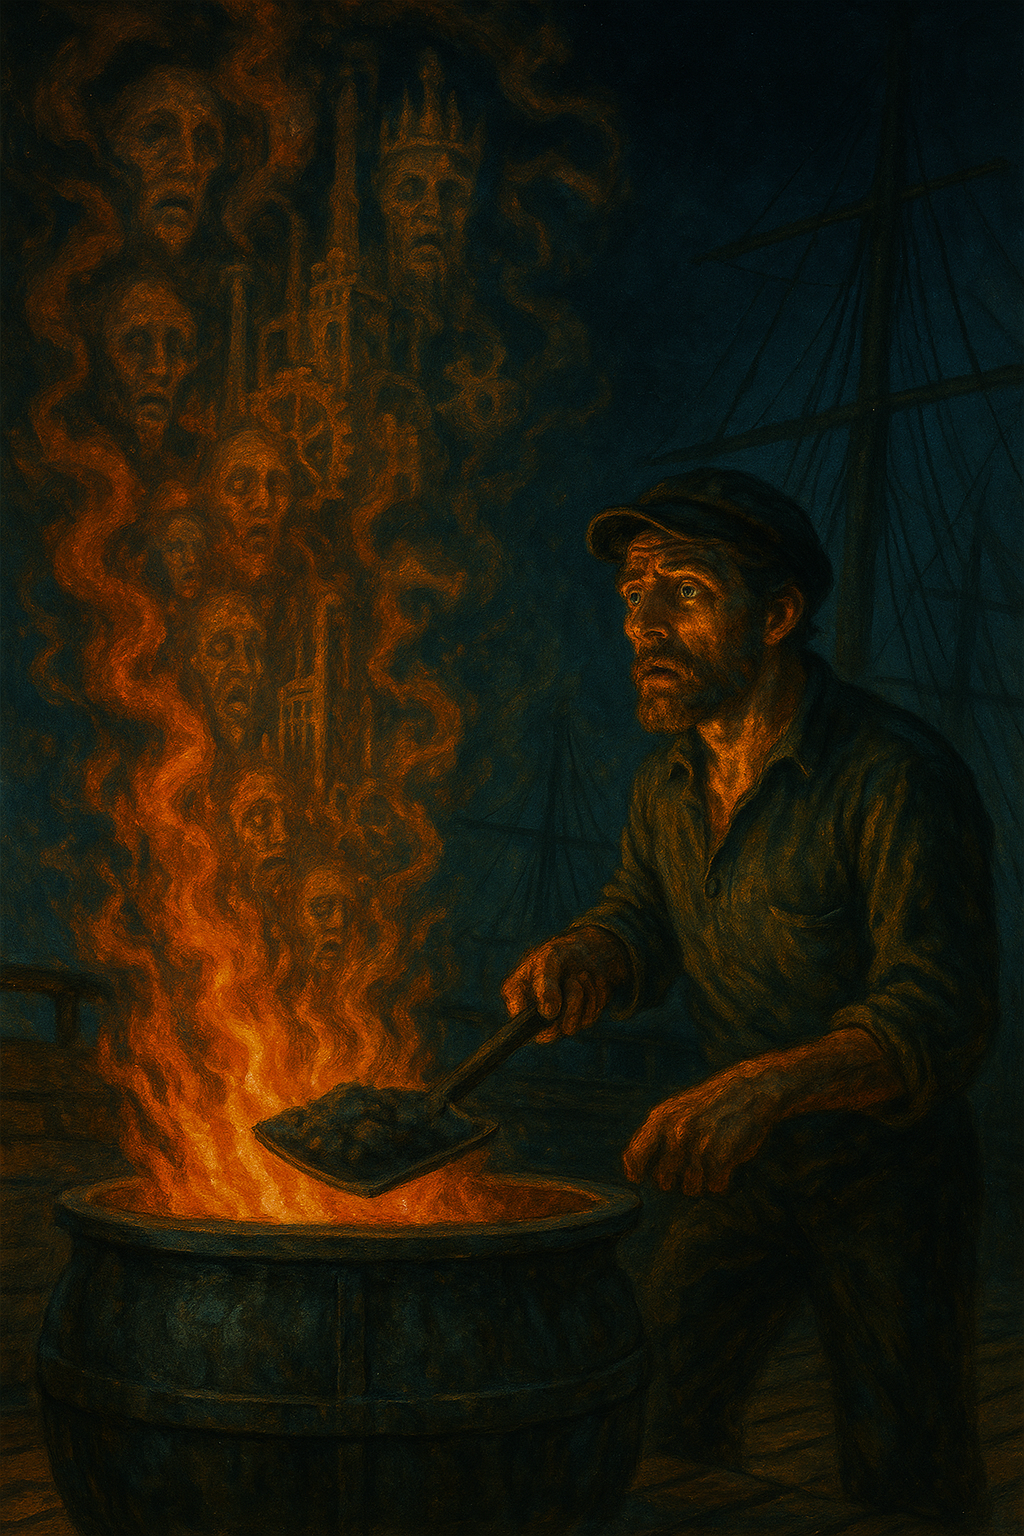
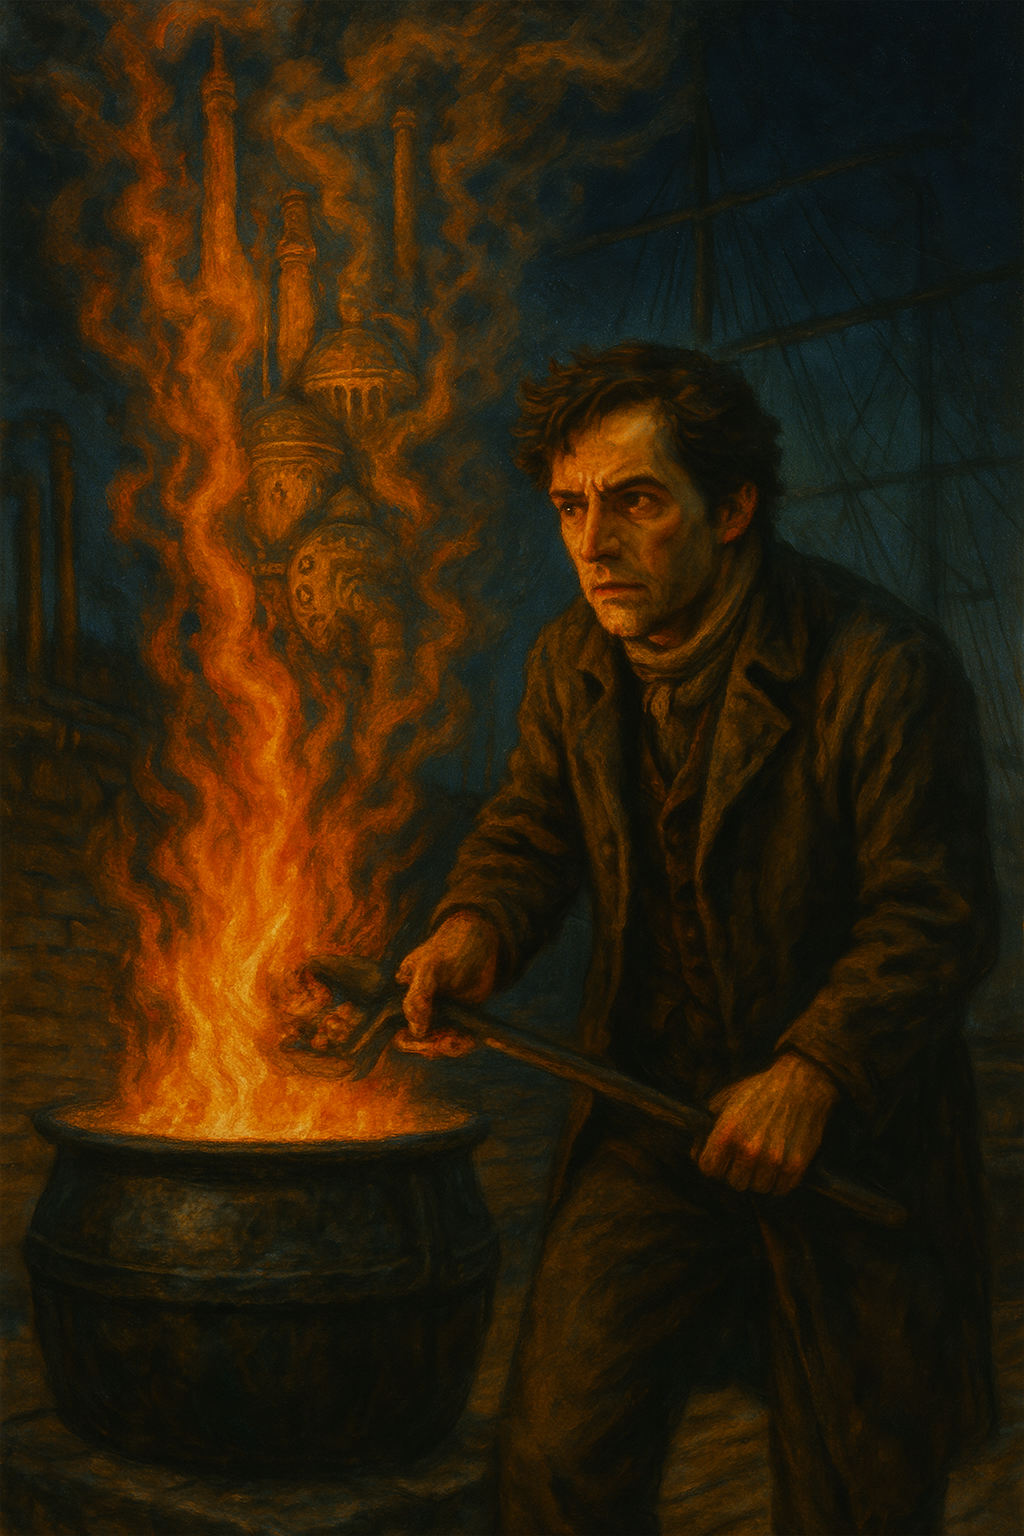
Add coffin.png for chapter 11 in visual journey

diff --git a/app/mobydickmodule/journey/page.tsx b/app/mobydickmodule/journey/page.tsx
@@ -717,8 +717,8 @@ export default function Journey() {
             >
               <div className="bg-gradient-to-br from-amber-800 to-amber-700 p-4 rounded-lg border-2 border-amber-500 shadow-inner">
                 <img
-                  src={selectedChapter.id === 2 ? "/images/chapter2.png" : selectedChapter.id === 3 ? "/images/whalemanchapel.png" : selectedChapter.id === 4 ? "/images/elijah.png" : selectedChapter.id === 5 ? "/images/pequod.png" : selectedChapter.id === 6 ? "/images/ahab.png" : selectedChapter.id === 7 ? "/images/doubloon.png" : selectedChapter.id === 8 ? "/images/quarterdeck.png" : selectedChapter.id === 9 ? "/images/starbuck.png" : selectedChapter.id === 10 ? "/images/tryworks.png" : "/images/ship-storm.png"}
-                  alt={selectedChapter.id === 2 ? "Chapter 2 Visual Journey" : selectedChapter.id === 3 ? "Whaleman Chapel" : selectedChapter.id === 4 ? "Elijah" : selectedChapter.id === 5 ? "The Pequod" : selectedChapter.id === 6 ? "Captain Ahab" : selectedChapter.id === 7 ? "Doubloon" : selectedChapter.id === 8 ? "Quarterdeck" : selectedChapter.id === 9 ? "Starbuck" : selectedChapter.id === 10 ? "Tryworks" : "Ship in Storm"}
+                  src={selectedChapter.id === 2 ? "/images/chapter2.png" : selectedChapter.id === 3 ? "/images/whalemanchapel.png" : selectedChapter.id === 4 ? "/images/elijah.png" : selectedChapter.id === 5 ? "/images/pequod.png" : selectedChapter.id === 6 ? "/images/ahab.png" : selectedChapter.id === 7 ? "/images/doubloon.png" : selectedChapter.id === 8 ? "/images/quarterdeck.png" : selectedChapter.id === 9 ? "/images/starbuck.png" : selectedChapter.id === 10 ? "/images/tryworks.png" : selectedChapter.id === 11 ? "/images/coffin.png" : "/images/ship-storm.png"}
+                  alt={selectedChapter.id === 2 ? "Chapter 2 Visual Journey" : selectedChapter.id === 3 ? "Whaleman Chapel" : selectedChapter.id === 4 ? "Elijah" : selectedChapter.id === 5 ? "The Pequod" : selectedChapter.id === 6 ? "Captain Ahab" : selectedChapter.id === 7 ? "Doubloon" : selectedChapter.id === 8 ? "Quarterdeck" : selectedChapter.id === 9 ? "Starbuck" : selectedChapter.id === 10 ? "Tryworks" : selectedChapter.id === 11 ? "Coffin" : "Ship in Storm"}
                   className="w-full h-[28rem] object-cover rounded border border-amber-400"
                 />
               </div>
